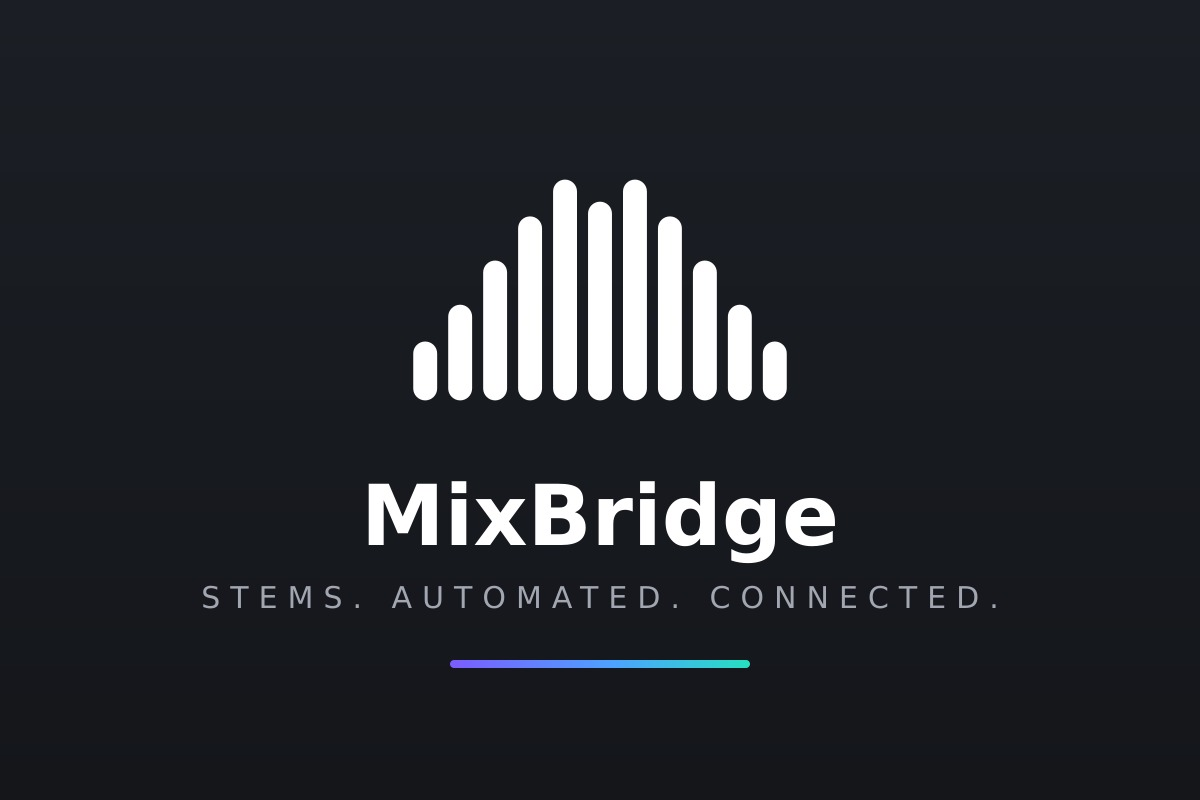
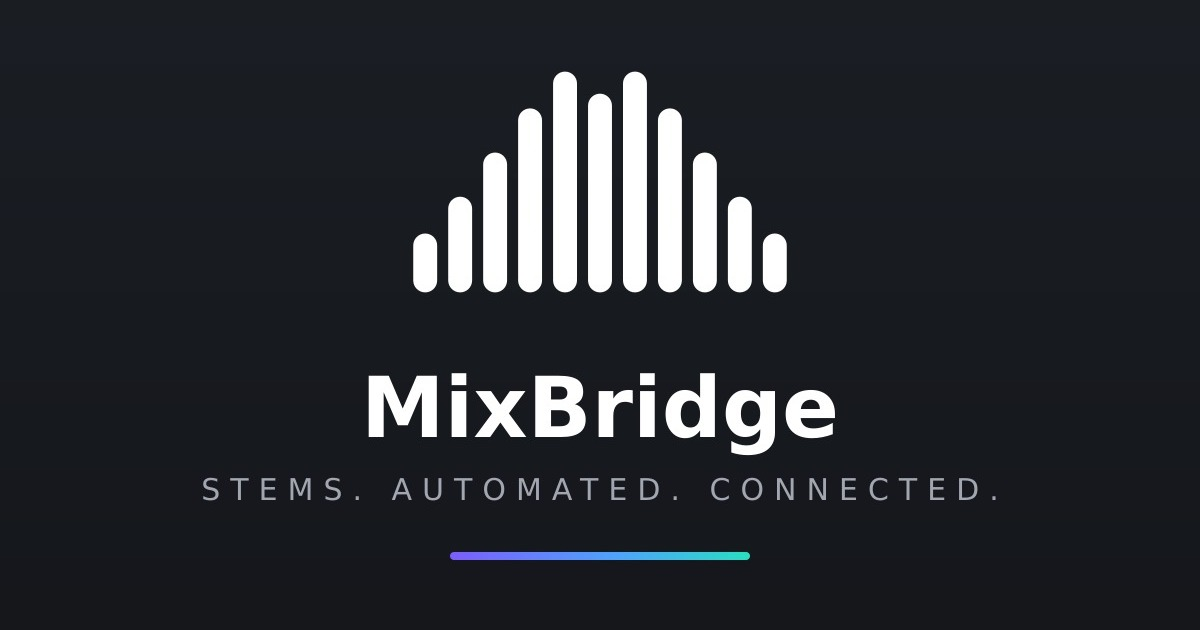
Release v0.6: standardize link-preview image + harden OG tags
- OG image reproportioned 1200x800 -> 1200x630 (universal 1.91:1 ratio)

- Add og:site_name, og:image:alt, twitter:image:alt; fix og:image:height to 630

- Bump version 0.1.0 -> 0.6.0

diff --git a/index.html b/index.html
@@ -14,19 +14,22 @@
 
     <!-- Open Graph -->
     <meta property="og:type" content="website" />
+    <meta property="og:site_name" content="MixBridge" />
     <meta property="og:url" content="https://mixbridge.studio/" />
     <meta property="og:title" content="MixBridge – Automate your stems. Free for Pro Tools." />
     <meta property="og:description" content="Free stem and bounce automation for Pro Tools. Focus on the mix, not the manual work." />
     <meta property="og:image" content="https://mixbridge.studio/og-image.jpg" />
     <meta property="og:image:type" content="image/jpeg" />
     <meta property="og:image:width" content="1200" />
-    <meta property="og:image:height" content="800" />
+    <meta property="og:image:height" content="630" />
+    <meta property="og:image:alt" content="MixBridge — Stems. Automated. Connected." />
 
     <!-- Twitter -->
     <meta name="twitter:card" content="summary_large_image" />
     <meta name="twitter:title" content="MixBridge – Automate your stems. Free for Pro Tools." />
     <meta name="twitter:description" content="Free stem and bounce automation for Pro Tools. Focus on the mix, not the manual work." />
     <meta name="twitter:image" content="https://mixbridge.studio/og-image.jpg" />
+    <meta name="twitter:image:alt" content="MixBridge — Stems. Automated. Connected." />
 
     <link rel="canonical" href="https://mixbridge.studio/" />
   </head>